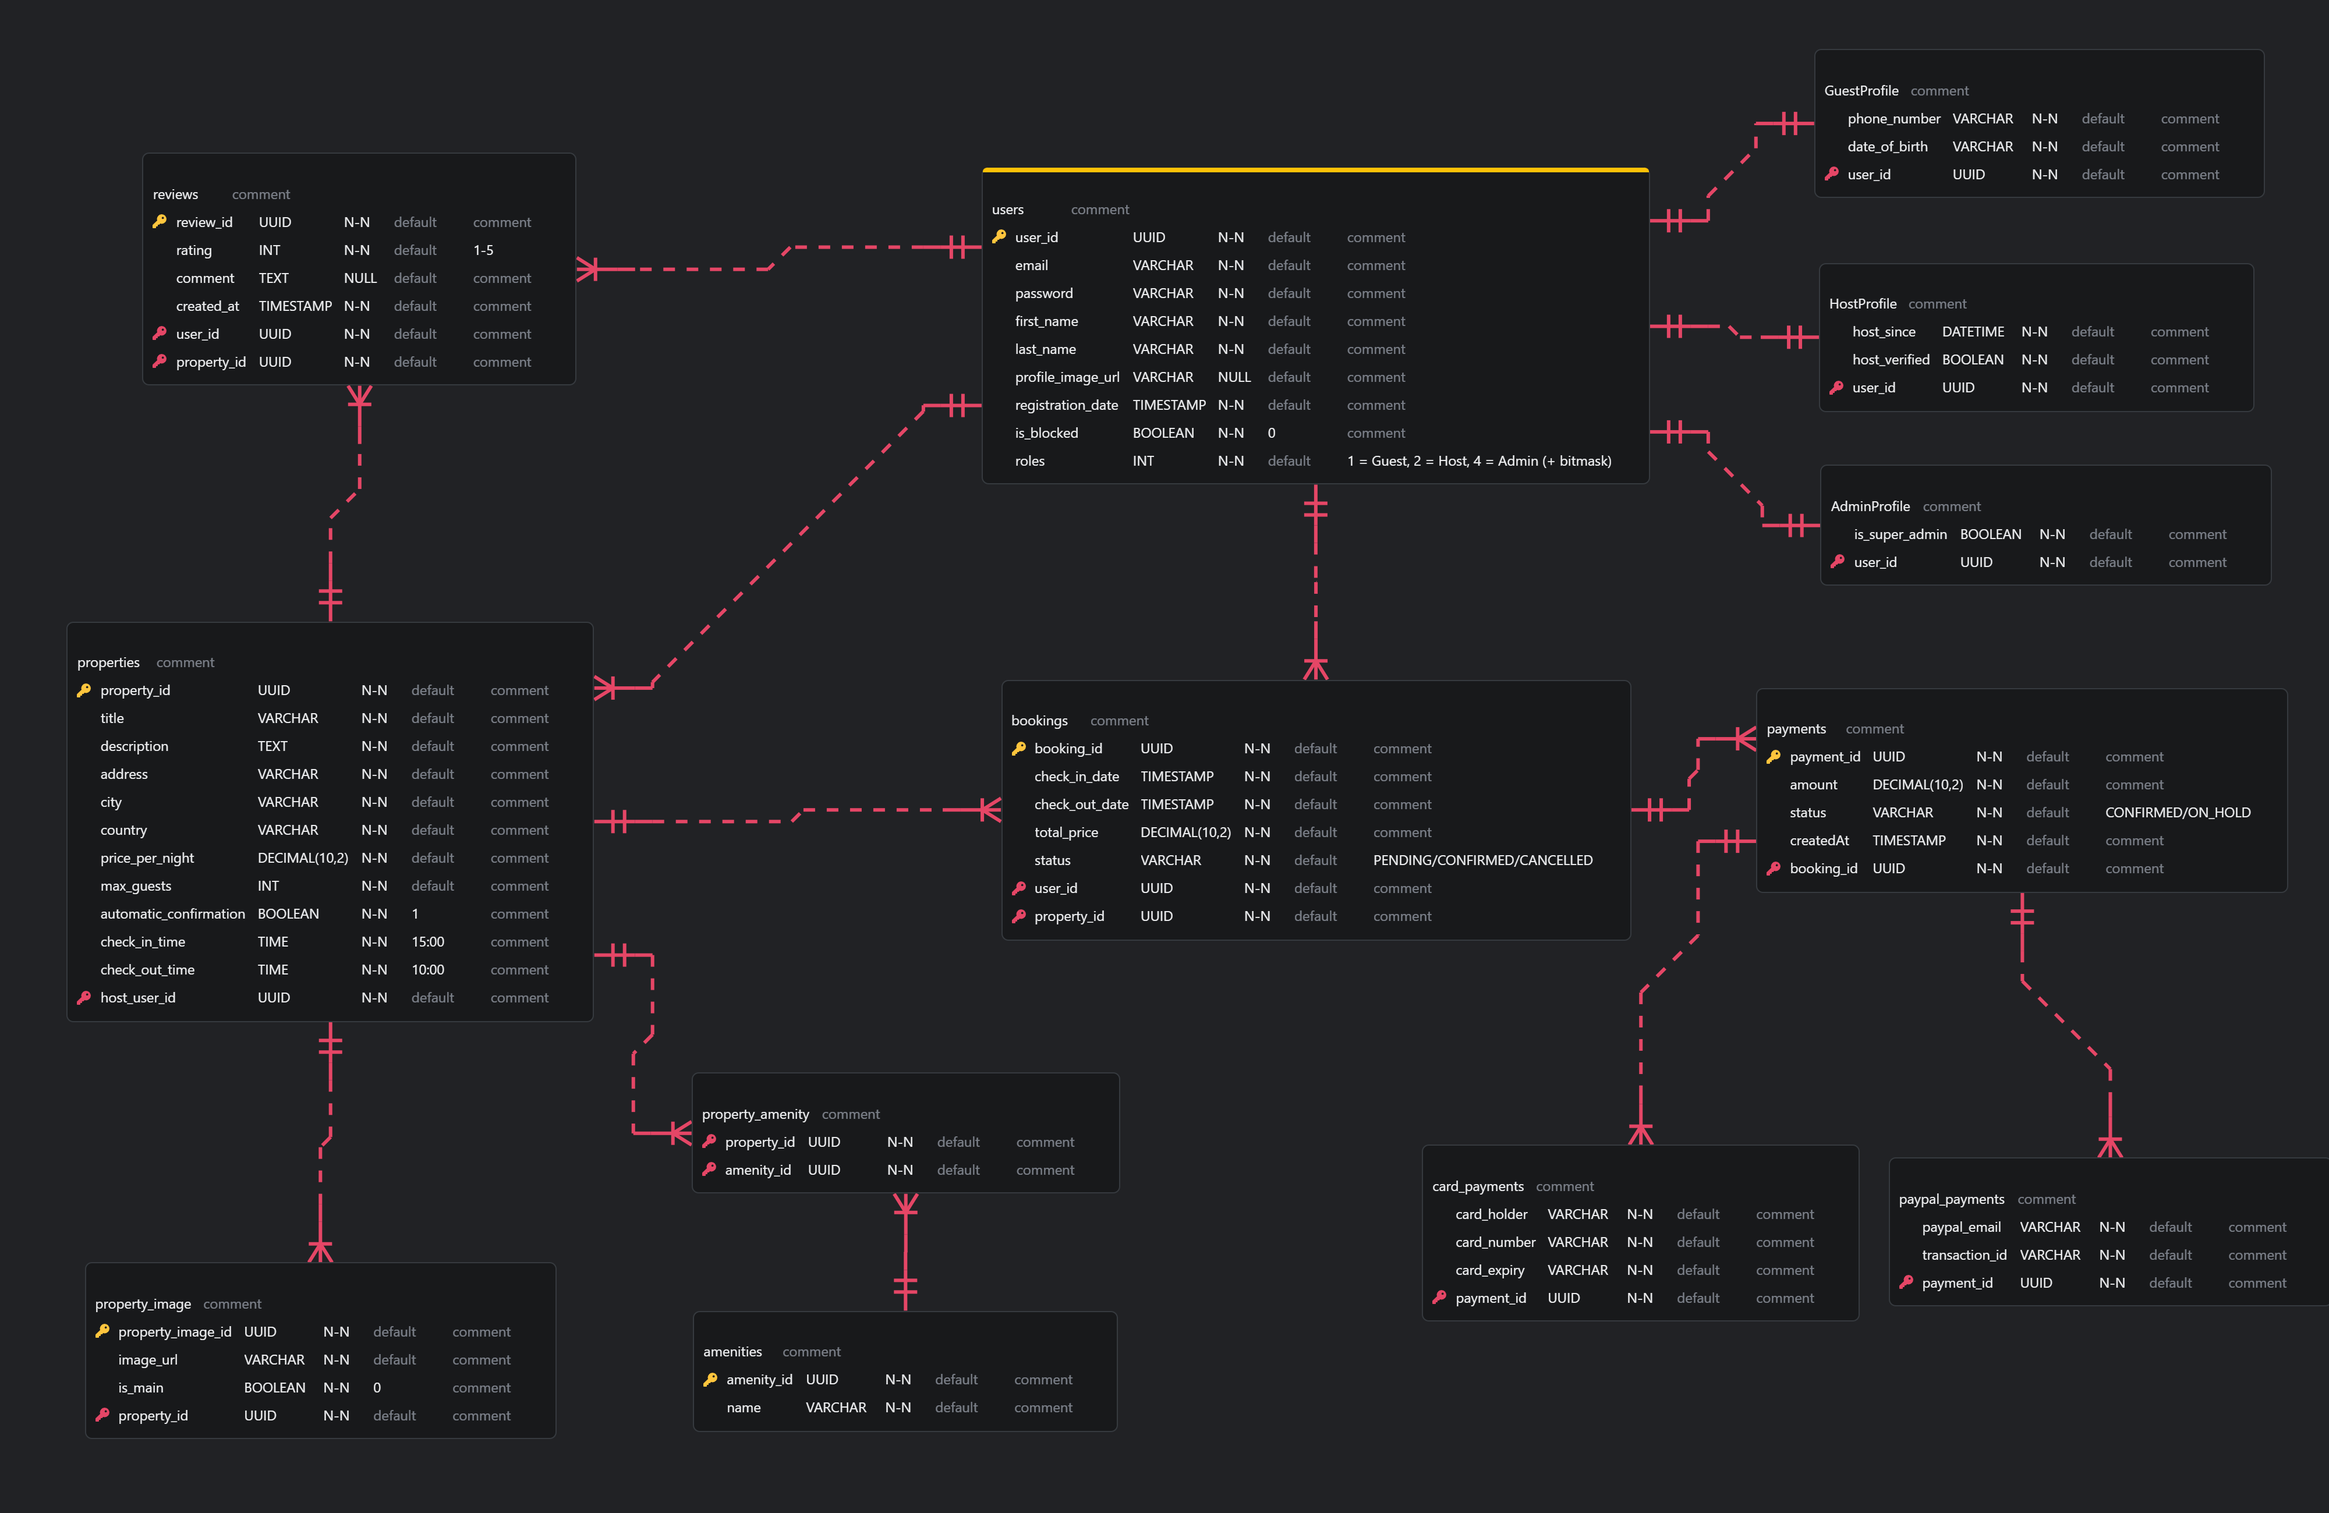
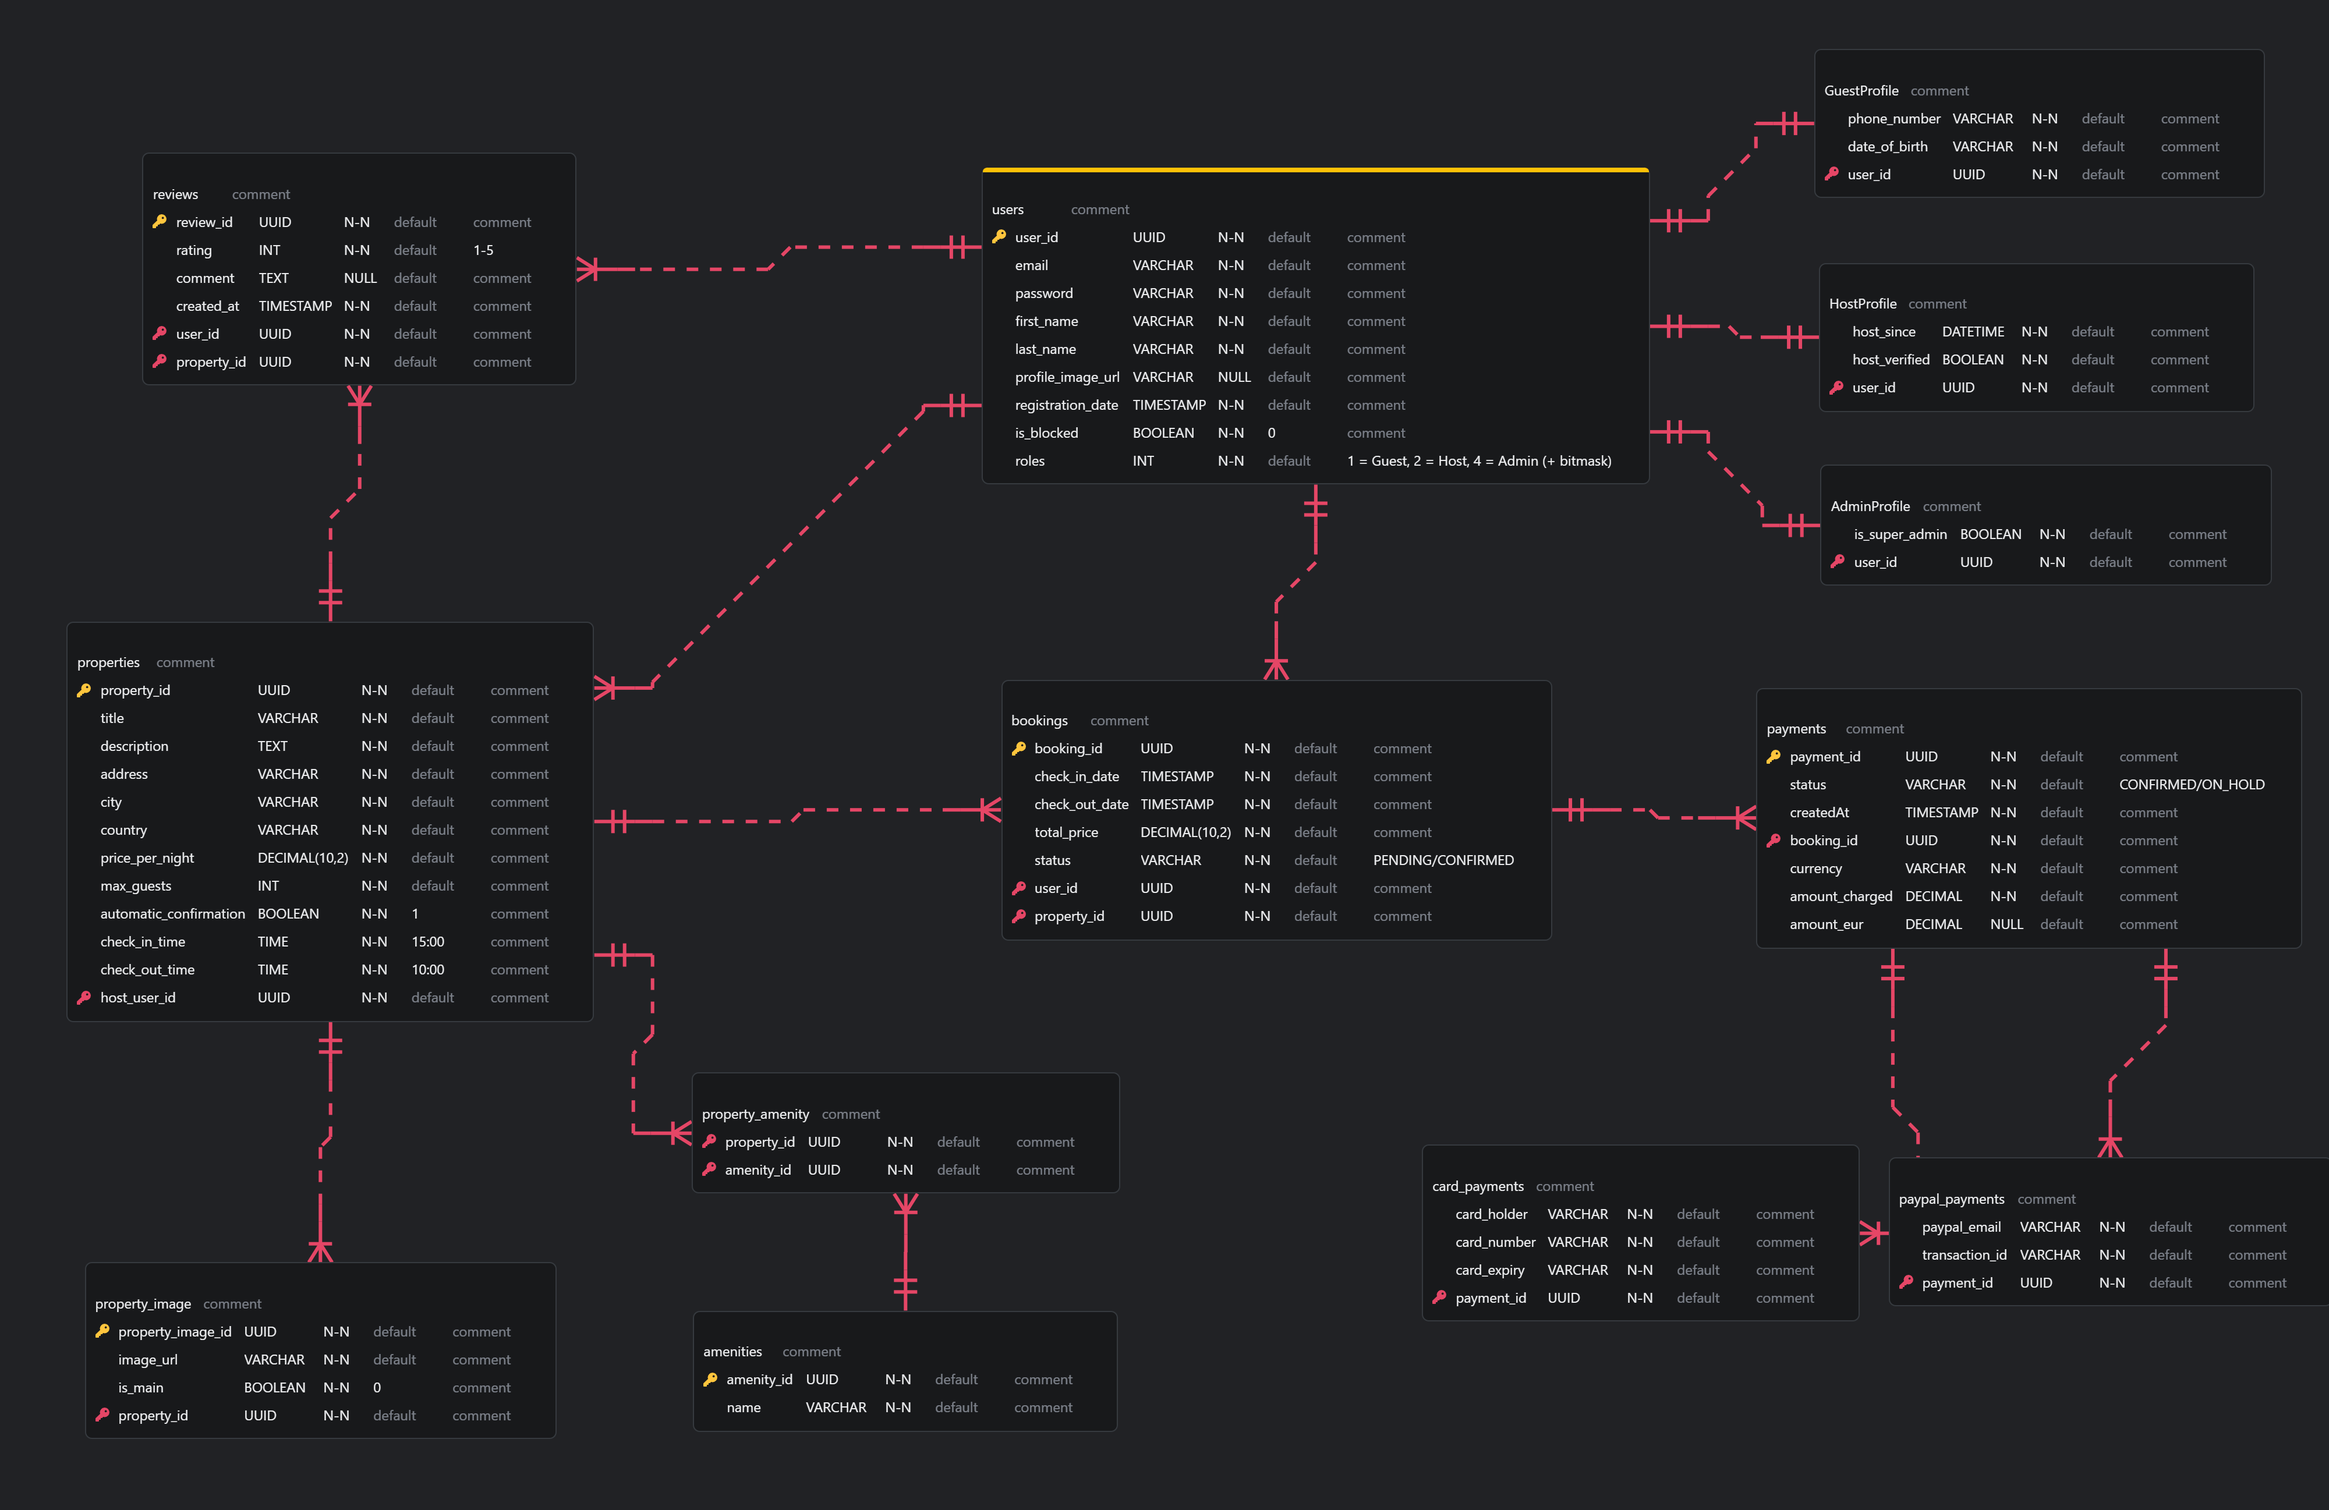
Adding 3rd Party Exchange Rate API

diff --git a/src/main/java/stefany/piccaro/submission/services/BookingService.java b/src/main/java/stefany/piccaro/submission/services/BookingService.java
@@ -10,6 +10,7 @@ import stefany.piccaro.submission.exceptions.ValidationException;
 import stefany.piccaro.submission.repositories.BookingRepository;
 
 import java.math.BigDecimal;
+import java.math.RoundingMode;
 import java.time.LocalDateTime;
 import java.time.temporal.ChronoUnit;
 import java.util.*;
@@ -24,6 +25,8 @@ public class BookingService {
     private PropertyService propertyService;
     @Autowired
     private UserService userService;
+    @Autowired
+    private ExchangeRateService exchangeRateService;
 
 
     public boolean existsCompletedBooking(UUID userId, UUID propertyId) {
@@ -46,18 +49,26 @@ public class BookingService {
             throw new ForbiddenException("Property is not available for the selected dates.");
         }
 
-        // Calculate total nights and price
+        // Calculate total nights
         long nights = ChronoUnit.DAYS.between(request.checkInDate(), request.checkOutDate());
         if (nights <= 0) {
             throw new ValidationException("Check-out date must be after check-in date.");
         }
-        BigDecimal totalPrice = property.getPricePerNight().multiply(BigDecimal.valueOf(nights));
+
+        // Price EUR
+        BigDecimal totalPriceEUR = property.getPricePerNight().multiply(BigDecimal.valueOf(nights));
+
+        // Get exchange rate
+        BigDecimal rate = exchangeRateService.getRateFromEur(request.currency());
+
+        // Convert to user's currency
+        BigDecimal amountCharged = totalPriceEUR.multiply(rate).setScale(2, RoundingMode.HALF_UP);
 
         // Create booking
         Booking booking = new Booking();
         booking.setCheckInDate(request.checkInDate());
         booking.setCheckOutDate(request.checkOutDate());
-        booking.setTotalPrice(totalPrice);
+        booking.setTotalPrice(totalPriceEUR);
         booking.setProperty(property);
         booking.setUser(user);
 
@@ -68,13 +79,28 @@ public class BookingService {
                 if (request.cardNumber() == null || request.cardHolder() == null || request.cardExpiry() == null) {
                     throw new ValidationException("Card information is incomplete (required: cardNumber, cardHolder, cardExpiry).");
                 }
-                payment = new CardPayment(totalPrice, booking, request.cardNumber(), request.cardHolder(), request.cardExpiry());
+                payment = new CardPayment(
+                        request.currency(),
+                        amountCharged,
+                        totalPriceEUR,
+                        booking,
+                        request.cardNumber(),
+                        request.cardHolder(),
+                        request.cardExpiry()
+                );
             }
             case "paypal" -> {
                 if (request.paypalEmail() == null || request.paypalTransactionId() == null) {
                     throw new ValidationException("Paypal information is incomplete (required: paypalEmail, paypalTransactionId).");
                 }
-                payment = new PaypalPayment(totalPrice, booking, request.paypalEmail(), request.paypalTransactionId());
+                payment = new PaypalPayment(
+                        request.currency(),
+                        amountCharged,
+                        totalPriceEUR,
+                        booking,
+                        request.paypalEmail(),
+                        request.paypalTransactionId()
+                );
             }
             default -> throw new ValidationException("Unsupported payment type.");
         }

diff --git a/src/main/java/stefany/piccaro/submission/entities/Payment.java b/src/main/java/stefany/piccaro/submission/entities/Payment.java
@@ -16,8 +16,14 @@ public class Payment {
     @Column(name = "payment_id")
     private UUID paymentId;
 
-    @Column(name = "amount", nullable = false)
-    private BigDecimal amount;
+    @Column(name = "currency", nullable = false)
+    private String currency;
+
+    @Column(name = "amount_charged", nullable = false)
+    private BigDecimal amountCharged;
+
+    @Column(name = "amount_eur", nullable = false)
+    private BigDecimal amountEUR;
 
     @Column(nullable = false)
     private LocalDateTime createdAt = LocalDateTime.now();
@@ -35,8 +41,12 @@ public class Payment {
     // ----- Constructors -----
     public Payment() {}
 
-    public Payment(BigDecimal amount, Booking booking) {
-        this.amount = amount;
+    public Payment(String currency,
+                   BigDecimal amountCharged,
+                   BigDecimal amountEUR, Booking booking) {
+        this.currency = currency;
+        this.amountCharged = amountCharged;
+        this.amountEUR = amountEUR;
         this.booking = booking;
     }
 
@@ -44,8 +54,14 @@ public class Payment {
     // ----- Getters/Setters -----
     public UUID getPaymentId() { return paymentId; }
 
-    public BigDecimal getAmount() { return amount; }
-    public void setAmount(BigDecimal amount) { this.amount = amount; }
+    public String getCurrency() { return currency; }
+    public void setCurrency(String currency) { this.currency = currency; }
+
+    public BigDecimal getAmountCharged() { return amountCharged; }
+    public void setAmountCharged(BigDecimal amountCharged) { this.amountCharged = amountCharged; }
+
+    public BigDecimal getAmountEUR() { return amountEUR; }
+    public void setAmountEUR(BigDecimal amountEUR) { this.amountEUR = amountEUR; }
 
     public LocalDateTime getCreatedAt() { return createdAt; }
     public void setCreatedAt(LocalDateTime createdAt) { this.createdAt = createdAt; }

diff --git a/src/main/java/stefany/piccaro/submission/services/ExchangeRateService.java b/src/main/java/stefany/piccaro/submission/services/ExchangeRateService.java
@@ -1,0 +1,56 @@
+package stefany.piccaro.submission.services;
+
+import org.springframework.beans.factory.annotation.Value;
+import org.springframework.http.ResponseEntity;
+import org.springframework.stereotype.Service;
+import org.springframework.web.client.RestTemplate;
+import stefany.piccaro.submission.dto.ExchangeRateResponseDTO;
+import stefany.piccaro.submission.exceptions.NotFoundException;
+import stefany.piccaro.submission.exceptions.ValidationException;
+
+import java.math.BigDecimal;
+
+@Service
+public class ExchangeRateService {
+
+    private final RestTemplate restTemplate;
+    private final String apiKey;
+    private final String baseUrl;
+
+    public ExchangeRateService(
+            RestTemplate restTemplate,
+            @Value("${exchange.api.key}") String apiKey,
+            @Value("${exchange.api.base-url}") String baseUrl
+    ) {
+        this.restTemplate = restTemplate;
+        this.apiKey = apiKey;
+        this.baseUrl = baseUrl;
+    }
+
+    public BigDecimal getRateFromEur(String targetCurrency) {
+
+        String url = String.format(
+                "%s/%s/latest/EUR",
+                baseUrl,
+                apiKey
+        );
+
+        ResponseEntity<ExchangeRateResponseDTO> response =
+                restTemplate.getForEntity(url, ExchangeRateResponseDTO.class);
+
+        ExchangeRateResponseDTO body = response.getBody();
+
+        if (body == null || !"success".equals(body.result())) {
+            throw new NotFoundException("Failed to retrieve exchange rates");
+        }
+
+        BigDecimal rate = body.conversion_rates()
+                .get(targetCurrency.toUpperCase());
+
+        if (rate == null) {
+            throw new ValidationException("Unsupported currency: " + targetCurrency);
+        }
+
+        return rate;
+    }
+}

diff --git a/src/main/java/stefany/piccaro/submission/controllers/BookingController.java b/src/main/java/stefany/piccaro/submission/controllers/BookingController.java
@@ -1,0 +1,33 @@
+package stefany.piccaro.submission.controllers;
+
+import jakarta.servlet.http.HttpServletRequest;
+import org.springframework.beans.factory.annotation.Autowired;
+import org.springframework.context.support.DefaultMessageSourceResolvable;
+import org.springframework.http.HttpStatus;
+import org.springframework.http.MediaType;
+import org.springframework.security.access.prepost.PreAuthorize;
+import org.springframework.validation.BindingResult;
+import org.springframework.validation.annotation.Validated;
+import org.springframework.web.bind.annotation.*;
+import org.springframework.web.multipart.MultipartFile;
+import stefany.piccaro.submission.dto.*;
+import stefany.piccaro.submission.entities.Role;
+import stefany.piccaro.submission.entities.User;
+import stefany.piccaro.submission.exceptions.ForbiddenException;
+import stefany.piccaro.submission.exceptions.ValidationException;
+import stefany.piccaro.submission.security.JWTTools;
+import stefany.piccaro.submission.services.UserService;
+
+import java.util.List;
+import java.util.UUID;
+
+@RestController
+@RequestMapping("/booking")
+public class BookingController {
+
+    // @Autowired
+    // private BookingService bookingService;
+
+
+
+}

diff --git a/src/main/java/stefany/piccaro/submission/dto/CreateBookingRequestDTO.java b/src/main/java/stefany/piccaro/submission/dto/CreateBookingRequestDTO.java
@@ -9,18 +9,25 @@ import java.time.LocalDateTime;
 import java.time.LocalTime;
 
 public record CreateBookingRequestDTO(
-        @NotNull(message = "Check-in date is required.")
+        @NotNull(message = "Check-in date is mandatory.")
         LocalDate checkInDate,
 
-        @NotNull(message = "Check-out date is required.")
+        @NotNull(message = "Check-out date is mandatory.")
         LocalDate checkOutDate,
 
-        @NotNull(message = "Payment type is required.")
+        @NotBlank(message = "Payment type is mandatory.")
         @Pattern(
                 regexp = "(?i)(Card|PayPal)",
                 message = "Invalid payment type, payment methods accepted: 'Card' or 'PayPal'."
         )
         String paymentType,
+
+        @NotBlank(message = "Currency is mandatory.")
+        @Pattern(
+                regexp = "^[A-Z]{3}$",
+                message = "Currency must be a 3-letter ISO code"
+        )
+        String currency,
 
         // Card payment info (only used if paymentType = CARD)
         String cardNumber,

diff --git a/src/main/java/stefany/piccaro/submission/entities/CardPayment.java b/src/main/java/stefany/piccaro/submission/entities/CardPayment.java
@@ -24,8 +24,14 @@ public class CardPayment extends Payment {
     // ----- Constructors -----
     public CardPayment() { }
 
-    public CardPayment(BigDecimal amount, Booking booking, String cardNumber, String cardHolder, String expiry) {
-        super(amount, booking);
+    public CardPayment(String currency,
+                       BigDecimal amountCharged,
+                       BigDecimal amountEUR,
+                       Booking booking,
+                       String cardNumber,
+                       String cardHolder,
+                       String expiry) {
+        super(currency, amountCharged, amountEUR, booking);
         this.cardNumber = cardNumber;
         this.cardHolder = cardHolder;
         this.expiry = expiry;

diff --git a/src/main/java/stefany/piccaro/submission/entities/PaypalPayment.java b/src/main/java/stefany/piccaro/submission/entities/PaypalPayment.java
@@ -20,8 +20,13 @@ public class PaypalPayment extends Payment {
 
     // ----- Constructors -----
     public PaypalPayment() {}
-    public PaypalPayment(BigDecimal amount, Booking booking, String paypalEmail, String transactionId) {
-        super(amount, booking);
+    public PaypalPayment(String currency,
+                         BigDecimal amountCharged,
+                         BigDecimal amountEUR,
+                         Booking booking,
+                         String paypalEmail,
+                         String transactionId) {
+        super(currency, amountCharged, amountEUR, booking);
         this.paypalEmail = paypalEmail;
         this.transactionId = transactionId;
     }

diff --git a/src/main/java/stefany/piccaro/submission/dto/ExchangeRateResponseDTO.java b/src/main/java/stefany/piccaro/submission/dto/ExchangeRateResponseDTO.java
@@ -1,0 +1,10 @@
+package stefany.piccaro.submission.dto;
+
+import java.math.BigDecimal;
+import java.util.Map;
+
+public record ExchangeRateResponseDTO(
+        String result,
+        String base_code,
+        Map<String, BigDecimal> conversion_rates
+) {}

diff --git a/README.md b/README.md
@@ -637,6 +637,12 @@ Create a booking against a property. Please note:
 the booking and payment will be automatically confirmed.
 Otherwise, they will remain PENDING/ON HOLD until the host of 
 the specified property confirms (or cancels) the booking.
+- By design, the base currency of the application is EUR. 
+Although, payments in other currencies are accepted. The payments table will therefore show:
+  - currency: The currency the payment was made in
+  - amount_charged: The amount in the specified currency
+  - amount_eur: The amount in EUR
+  - This design choice was made to showcase the use of a 3rd-party exchange rate API.
 
 #### Headers:
 ```
@@ -649,6 +655,7 @@ Authorizarion: Bearer <BearerToken>
   "checkInDate": "<YYYY-MM-DD>",
   "checkOutDate": "<YYYY-MM-DD>",
   "paymentType": "<String - 'PayPal' or 'Card'>",
+  "currency": "<3-letter currency code>",
 
   "cardNumber": "<cardNumber - required only for paymentType=card>",
   "cardHolder": "<cardHolder - required only for paymentType=card>",
